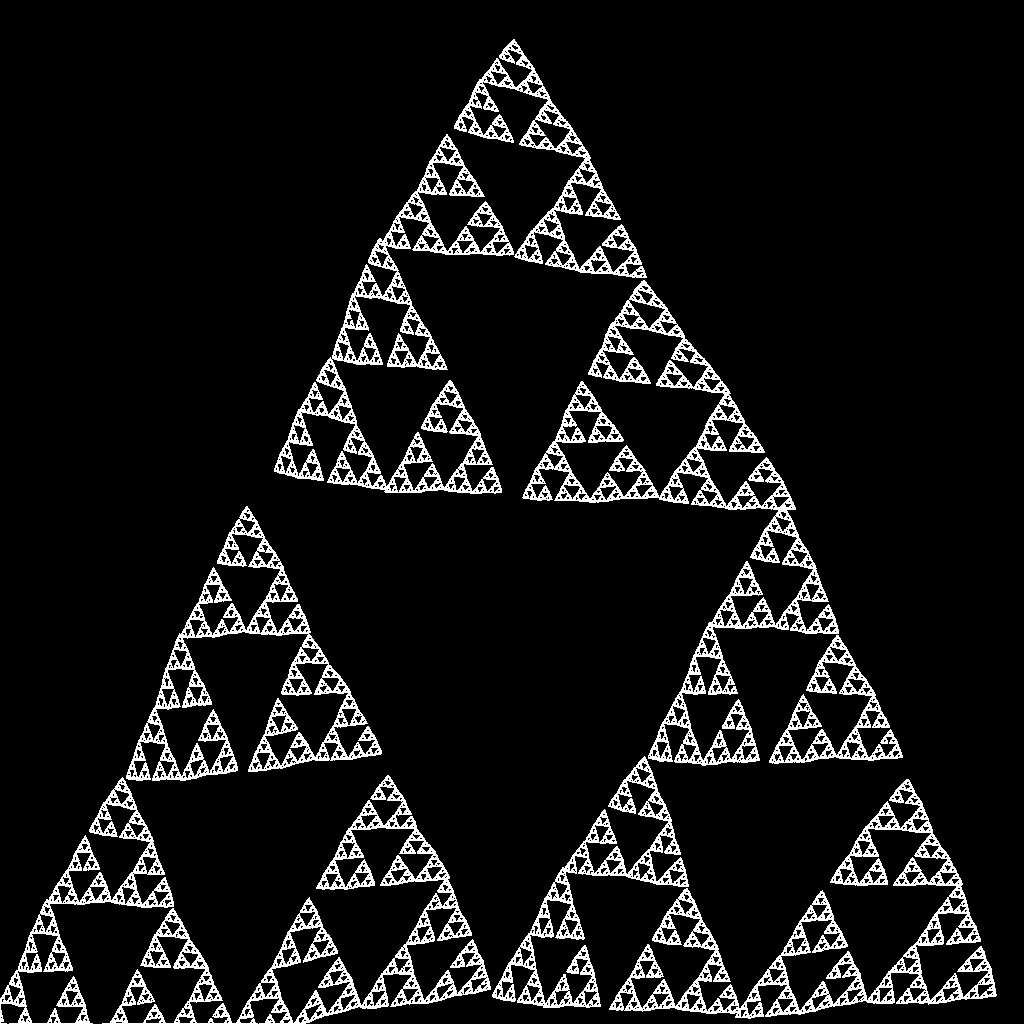
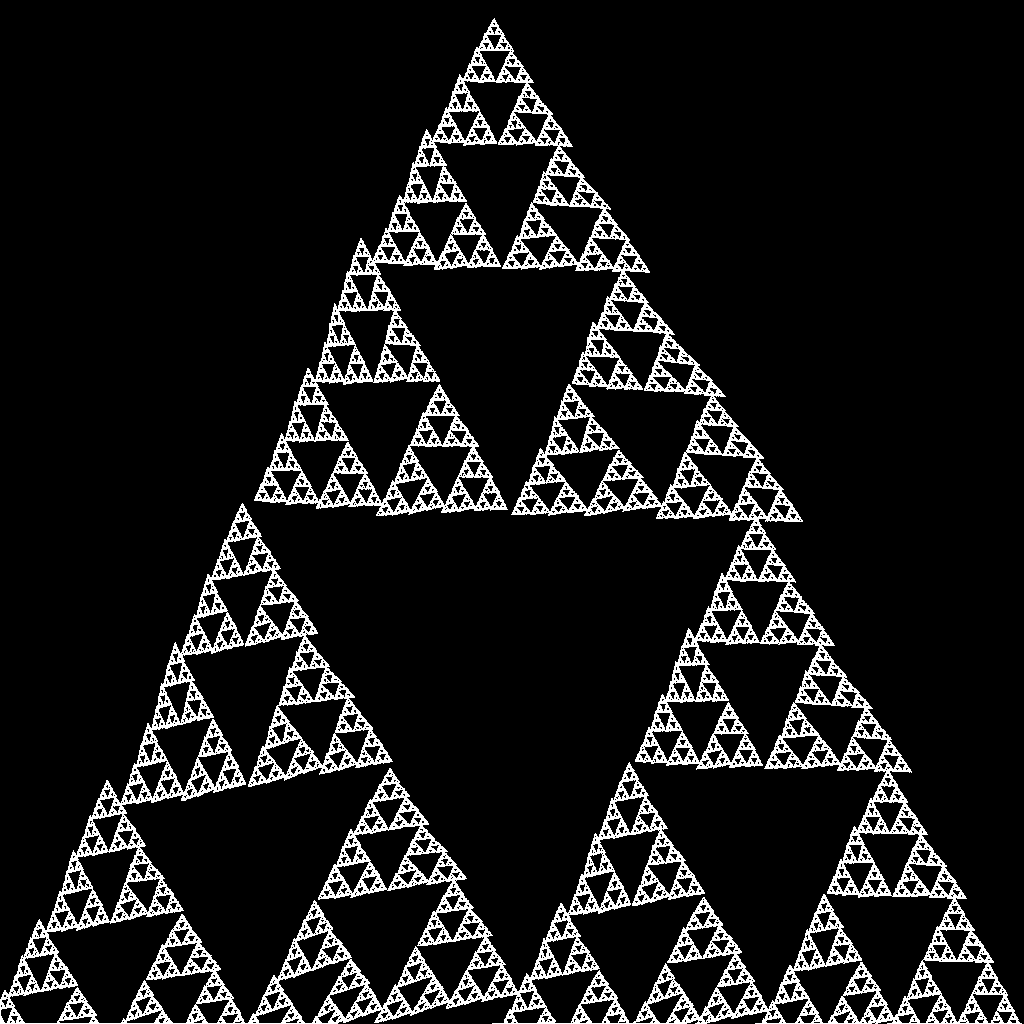
more searching

Changed region(s): [[0.0, 0.0312, 1.0, 1.0]]

diff --git a/src/demo_gradients.py b/src/demo_gradients.py
@@ -14,9 +14,9 @@ from gradients import gradient_descent, greedy_descent, greedy_descent_2
 from rectangle import Rectangle, rectangles_to_function_system, rectangle_to_contiguous_affine_function, rectangles_to_vector, vectors_to_function_system, vectors_to_rectangles
 from find_fractal import error
 
-SUBSAMPLE_SIZE = 64
+SUBSAMPLE_SIZE = 256
 NUM_STEPS = 800
-LEARNING_RATE = 5e-2
+LEARNING_RATE = 2e-2
 GRADIENT_APPROXIMATION_EPSILON = 1e-2
 GREEDY_STEP_SIZE = 1e-2
 N_RUNS = 20
@@ -45,7 +45,7 @@ objective_function = lambda rectangles_param_vector: error(rectangles_param_vect
 np.random.seed(0)
 param_vector_size = 5 * n_rectangles
 # initial_param_vectors = np.random.uniform(0, 1, N_RUNS * param_vector_size).reshape((N_RUNS, param_vector_size)).astype(np.float32)
-old_top_rectangles = [Rectangle(center_x=0.43331647, center_y=0.3955077, width=0.52147627, height=0.46386707, rotate_angle=0.66796845), Rectangle(center_x=0.34994644, center_y=0.8730466, width=0.5898434, height=0.5004258, rotate_angle=0.3173819), Rectangle(center_x=0.79011494, center_y=0.8679324, width=0.5420968, height=0.53437376, rotate_angle=0.33699903)]
+old_top_rectangles = [Rectangle(center_x=0.43559211, center_y=0.37553188, width=0.54621595, height=0.45281804, rotate_angle=0.66374946), Rectangle(center_x=0.30484405, center_y=0.8763722, width=0.5664403, height=0.4548299, rotate_angle=0.3348315), Rectangle(center_x=0.8143797, center_y=0.87052804, width=0.5524245, height=0.45184985, rotate_angle=0.3303465)]
 old_top_vector = rectangles_to_vector(old_top_rectangles)
 initial_param_vectors = (np.random.normal(0, STD_STRAY, N_RUNS * param_vector_size).reshape((N_RUNS, param_vector_size)).astype(np.float32) + old_top_vector).clip(0, 1)
 
